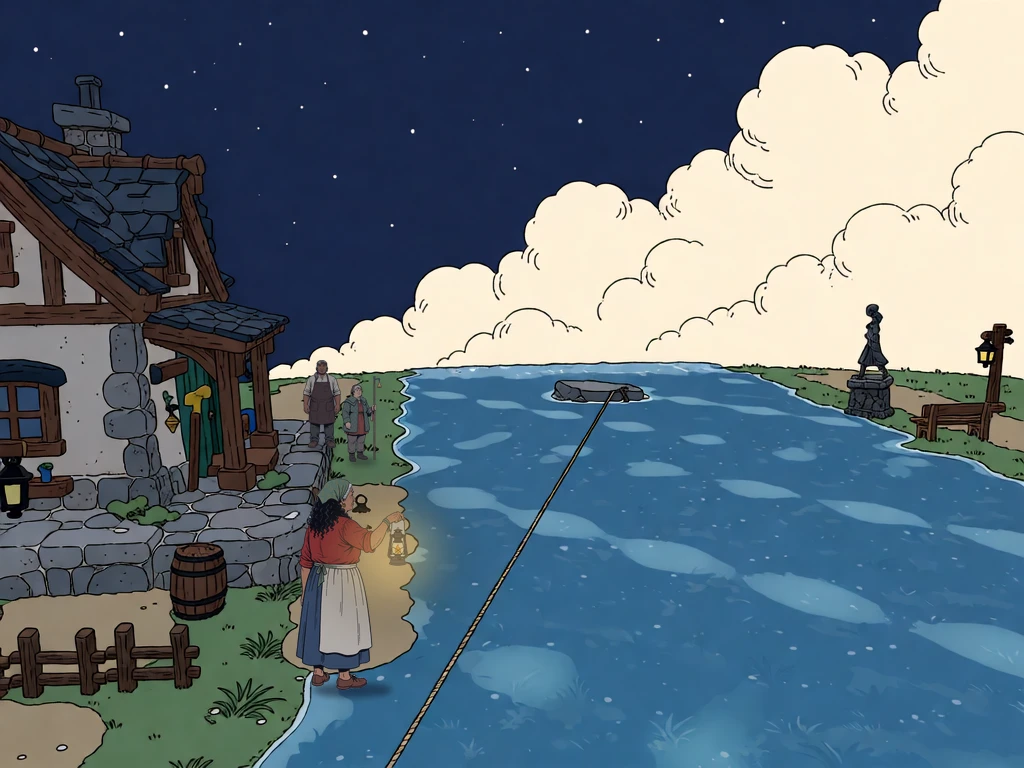
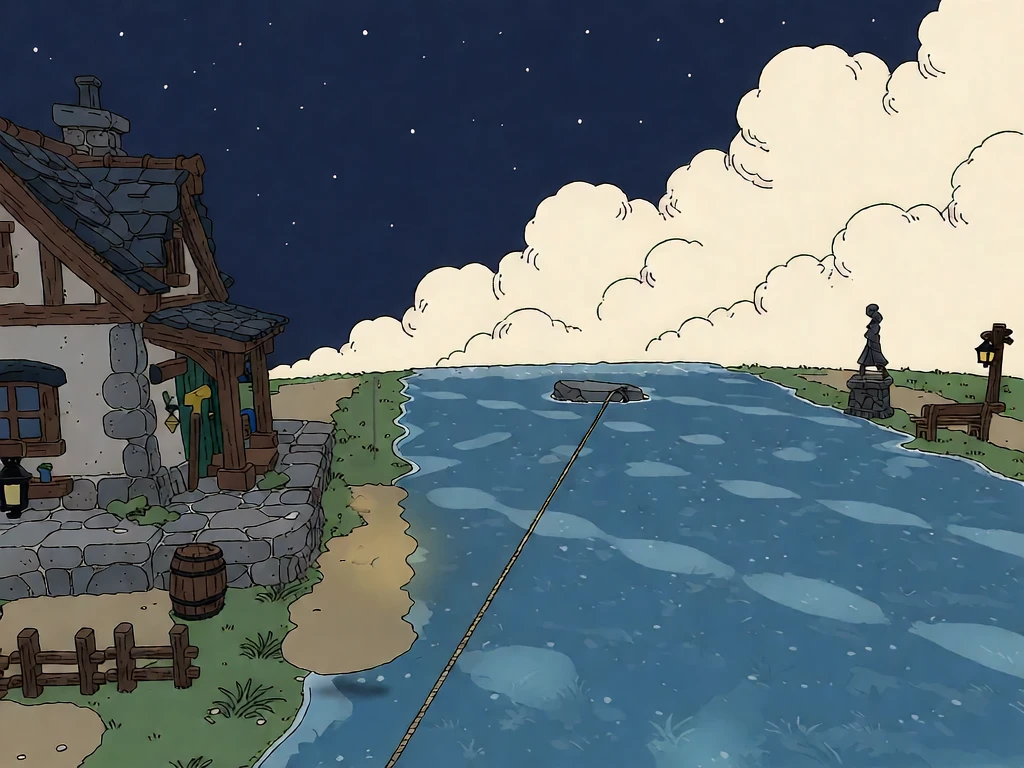
Alarm shot 2: the locked falls picture, nobody and no lamp on the sand
Claude-Session: https://claude.ai/code/session_01JTmPYBGE5RJi7qTbK5Qior

diff --git a/CREDITS.md b/CREDITS.md
@@ -16,7 +16,7 @@ subscription-only billing so no Spark was spent. Sources are in the project file
 | stills/r8-{1,2,7,10,11a,11b}.webp (run 8's reaction stills: Tilda steady, Tilda and Rook at the far well, Rook asking for Granny (redrawn the same day, more concerned, at Ladi's word), the count book, Tilda asking, Rook with no answer) | Drafts drawn by the gameplay thread with krea2_identity_edit_v1_2 on Sogni, 2026-11-24, on Ladi's plan, 0 Spark (project files `gameplay/stills/run8/`), 1024 by 768 as delivered. | The stills panel over the Sieve (`src/engine/stills.ts`) |
 | stills/r8-5.webp, stills/r8-6.webp (run 8's reaction stills at the tug: Tilda lost with Rook uneasy behind her; Tilda watching, Rook looking down) | Drawn by the cutscene thread on Sogni, 2026-11-24, on Ladi's plan; Ladi approved them at 10:44 AM ("Faces look good"). Every step with krea2_identity_edit_v1_2 on the subscription, 0 Spark, as that thread confirmed from its render logs (Tilda alone, Rook added behind her, the face changes on head crops), from the project's own persona sheets lf-tilda and lf-rook-high-grounds; the face transplants, Tilda's chalk smudge and Rook's enlarging are its own script and hand work, no model (sources `sogni/lanternfall/production/story/run8-stills/s5-closer.png` and `s6-closer.png`; delivered in project files `gameplay/stills/run8/`), 1024 by 768 as delivered | The stills panel over the Sieve: 5 as the tug takes hold, 6 cross-fading over it when the tug ends |
 | stills/r6-land-{1,2,3}.webp (run 6's landing pictures: the crowd looking up with Lumi in front, the comet over the island, Hesta landing in the glass) | Drafts drawn by the gameplay thread on Sogni, 2026-11-24, on Ladi's plan, 0 Spark, all with krea2_identity_edit_v1_2; picture 2 redrawn the same day from the game's own island; picture 1 redrawn on 2026-11-25 by the cutscene thread with the cast from their personas (`r6-land-1-cast`, not seen by Ladi yet); picture 3 redrawn on 2026-11-25 by the cutscene thread on Ladi's notes, Hesta alone on the Kindling ground drawn from the game's own map, close, with a wide crater, in her Hesta Gear look (`r6-land-3-gear`, 0 Spark, not seen by Ladi yet) (project files `gameplay/stills/run6/`), 1024 by 768 as delivered | The held pictures of the landing between runs 6 and 7; picture 2 shows only with `?stillsonly`, since the comet now falls on the map |
-| stills/alarm/**/*.webp (the alarm before run 6 as moving layers: the kitchen with its lamp and three cups apart; the falls (redrawn 2026-11-25 by the cutscene thread from the game's own map with Maudie, Orrin and Moth from their personas, `alarm2-falls-map`, on Ladi's note, not seen by Ladi yet); the Kindling ground close with its fire strong, low, in embers and out, drawn from the game's own story/kindling-ring.webp (replaced on 2026-11-26 by the cutscene thread's `gameplay/stills/run6/alarm3-v2/` frames, both archways gone and the fire visibly dying, locked by Ladi); and in shot4/ the island going down: sky, five layers of cloud, the island cut out with its heart bright and dim, a strip of waterfall, four rocks), stills/r6-alarm-5.webp (Lumi at the door, worried; replaced on 2026-11-26 by the cutscene thread's `gameplay/stills/run6/r6-alarm-5-v2.webp`, her staff longer, locked by Ladi) and stills/r7-end-1.webp (the island clear of the cloud; redrawn 2026-11-25 by the cutscene thread over a capture of the game's own island, `r7-end-1-map`, on Ladi's note, 0 Spark as that thread reports; no longer shown: on 2026-11-26 Ladi asked for the alarm's island shot the other way instead, so the end of run 7 is now shot4's layers played rising out of the cloud, with a small fire drawn in the page in the Kindling brazier) | Drafts drawn by the gameplay thread on Sogni, 2026-11-24, on Ladi's plan, 0 Spark, with krea2_identity_edit_v1_2, the island drawn from the game's own (project files `gameplay/stills/run6/` and `gameplay/stills/run6/alarm-layers/`); the layers turned from PNG to WebP here, same sizes | The alarm's five shots before run 6 (`?noalarm` leaves them out) and the picture at the end of run 7. The alarm's sparks are drawn in the page, and its sounds (bell, timbers, falls, far-off voices, the low roll, rock breaking) are made in the page, no files |
+| stills/alarm/**/*.webp (the alarm before run 6 as moving layers: the kitchen with its lamp and three cups apart; the falls (redrawn 2026-11-25 by the cutscene thread from the game's own map with Maudie, Orrin and Moth from their personas, `alarm2-falls-map`, on Ladi's note; replaced on 2026-11-26 by `gameplay/stills/run6/r6-alarm-2-v2.webp`, from `alarm2-falls-nolamp-c.png` (krea2_identity_edit_v1_2, 0 Spark, with a hand clean-up of the sand), nobody and no lamp on the sand, locked by Ladi); the Kindling ground close with its fire strong, low, in embers and out, drawn from the game's own story/kindling-ring.webp (replaced on 2026-11-26 by the cutscene thread's `gameplay/stills/run6/alarm3-v2/` frames, both archways gone and the fire visibly dying, locked by Ladi); and in shot4/ the island going down: sky, five layers of cloud, the island cut out with its heart bright and dim, a strip of waterfall, four rocks), stills/r6-alarm-5.webp (Lumi at the door, worried; replaced on 2026-11-26 by the cutscene thread's `gameplay/stills/run6/r6-alarm-5-v2.webp`, her staff longer, locked by Ladi) and stills/r7-end-1.webp (the island clear of the cloud; redrawn 2026-11-25 by the cutscene thread over a capture of the game's own island, `r7-end-1-map`, on Ladi's note, 0 Spark as that thread reports; no longer shown: on 2026-11-26 Ladi asked for the alarm's island shot the other way instead, so the end of run 7 is now shot4's layers played rising out of the cloud, with a small fire drawn in the page in the Kindling brazier) | Drafts drawn by the gameplay thread on Sogni, 2026-11-24, on Ladi's plan, 0 Spark, with krea2_identity_edit_v1_2, the island drawn from the game's own (project files `gameplay/stills/run6/` and `gameplay/stills/run6/alarm-layers/`); the layers turned from PNG to WebP here, same sizes | The alarm's five shots before run 6 (`?noalarm` leaves them out) and the picture at the end of run 7. The alarm's sparks are drawn in the page, and its sounds (bell, timbers, falls, far-off voices, the low roll, rock breaking) are made in the page, no files |
 | stills/alarm/shot4/{island-dim,island-bright,waterfall-strip,debris-1..4}.webp (the alarm's last shot, redrawn so the houses, the landing with its skiff and the lake sit where they are on the map, with the falls down the near face) | Redrawn by the gameplay thread on Sogni, 2026-11-24, straight over a capture of the game's own home island made here (project files `build/home-island-horseshoe/whole/2-day-side.png`); Ladi approved the shot at 11:30 AM ("Shot 4 Descent looks good", draft 5). Model and cost as that thread's other alarm layers (the row above); turned from PNG to WebP here, same sizes; on 2026-11-25 the cutscene thread painted the five small figures out of island-dim and island-bright at Ladi's request (the shot is too wide for people), same size and alpha (`production/story/run6-stills/layers4/nopeople/`) | The island going down, the last shot of the alarm before run 6 |
 | models/rook.glb, lumi.glb, hesta.glb, wick.glb, moth.glb, nell.glb, sefa.glb (story characters) | The cast art thread's rigged and animated models (`production/<who>/<who>-rigged.glb`, 2026-11-23: idle, walk, run, pull, push clips), shipped as delivered (quantised, no meshopt): 570 to 815 KB each |
 | models/maudie.glb, mabry.glb, orrin.glb (home island residents) | The cast art thread's rigged and animated models (`production/<who>/<who>-rigged.glb`, 2026-11-25: idle, walk, run, pull, push; Mabry's cane skinned to her right hand), shipped as delivered, 646 to 737 KB each. Ladi approved the three field drawings ("Looks good to me", 2026-11-25, 4:21 AM); the rigged models are not seen by him yet. Same Sogni pipeline and caveats as the row above | The walks: Maudie at Rook's door, Orrin at his stall, Mabry at the shrine; and in run 7's crowd on Hesta's terrace |
